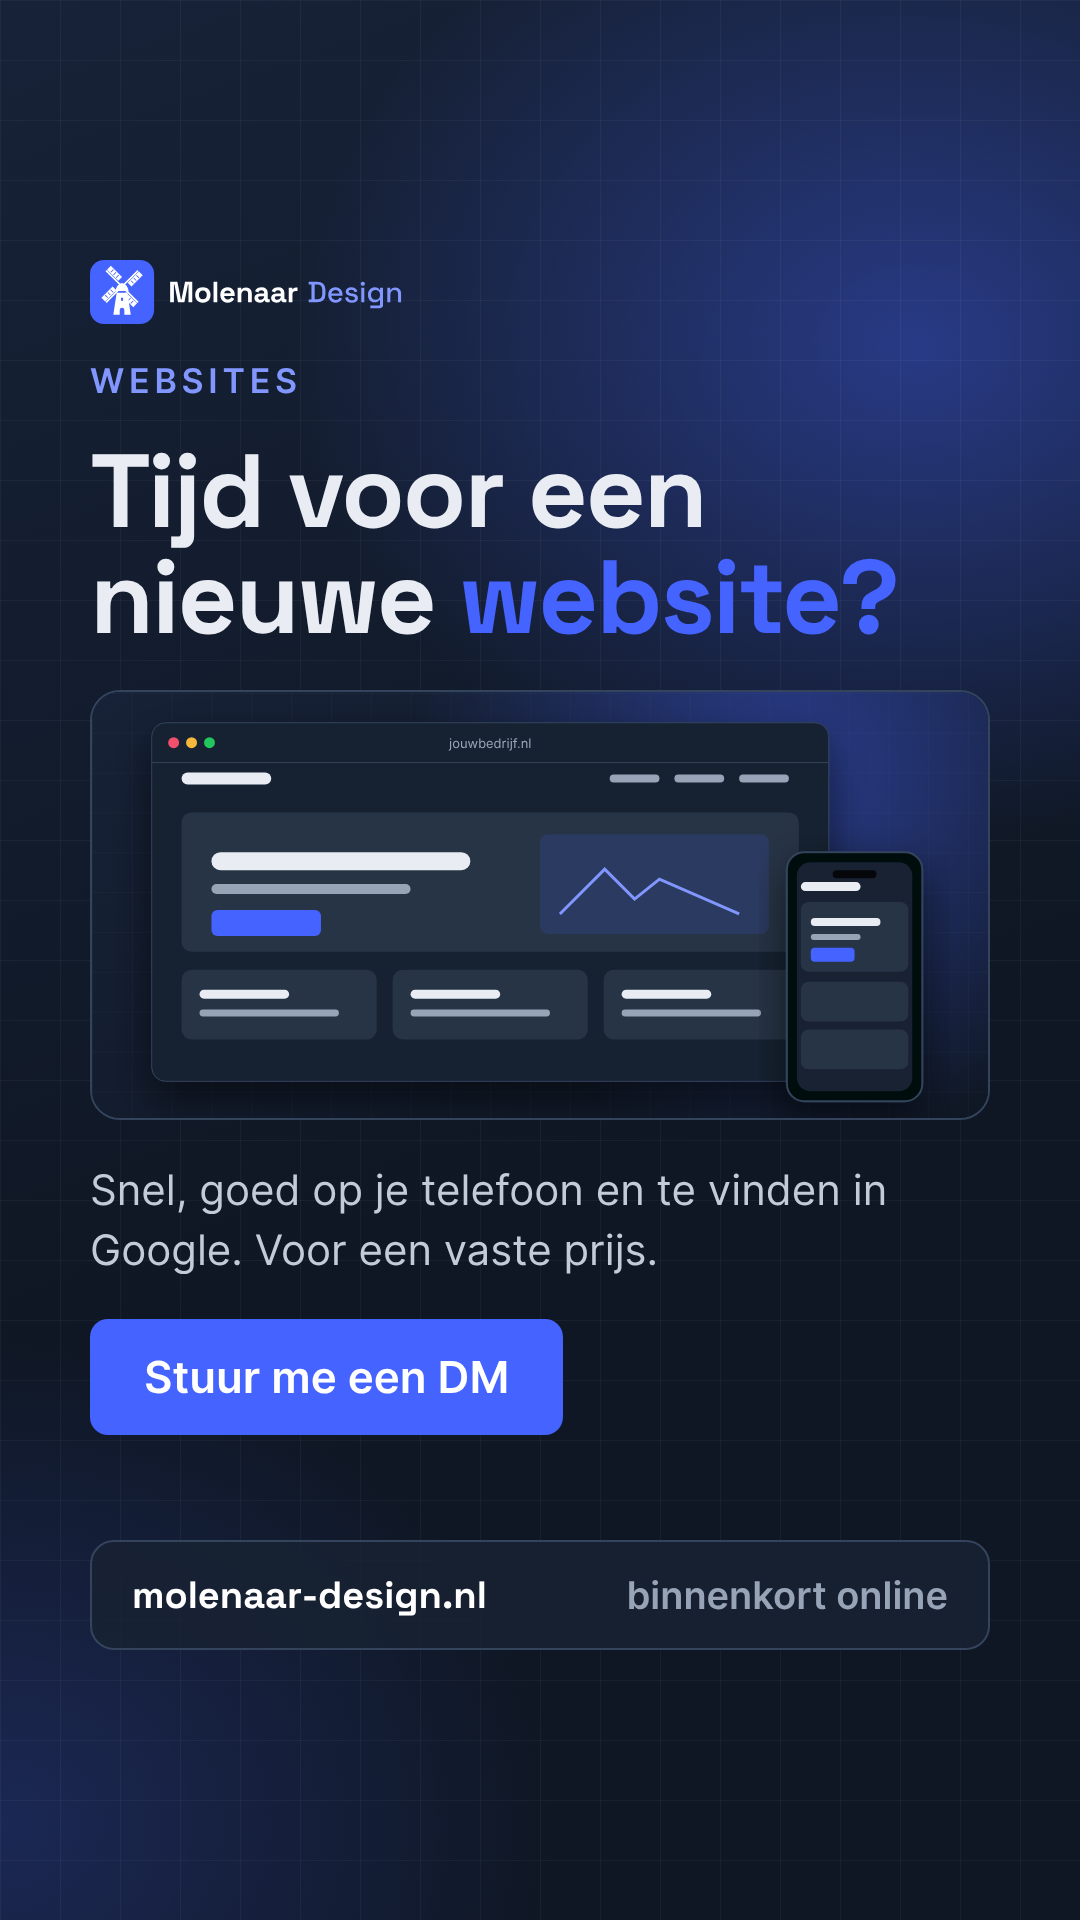
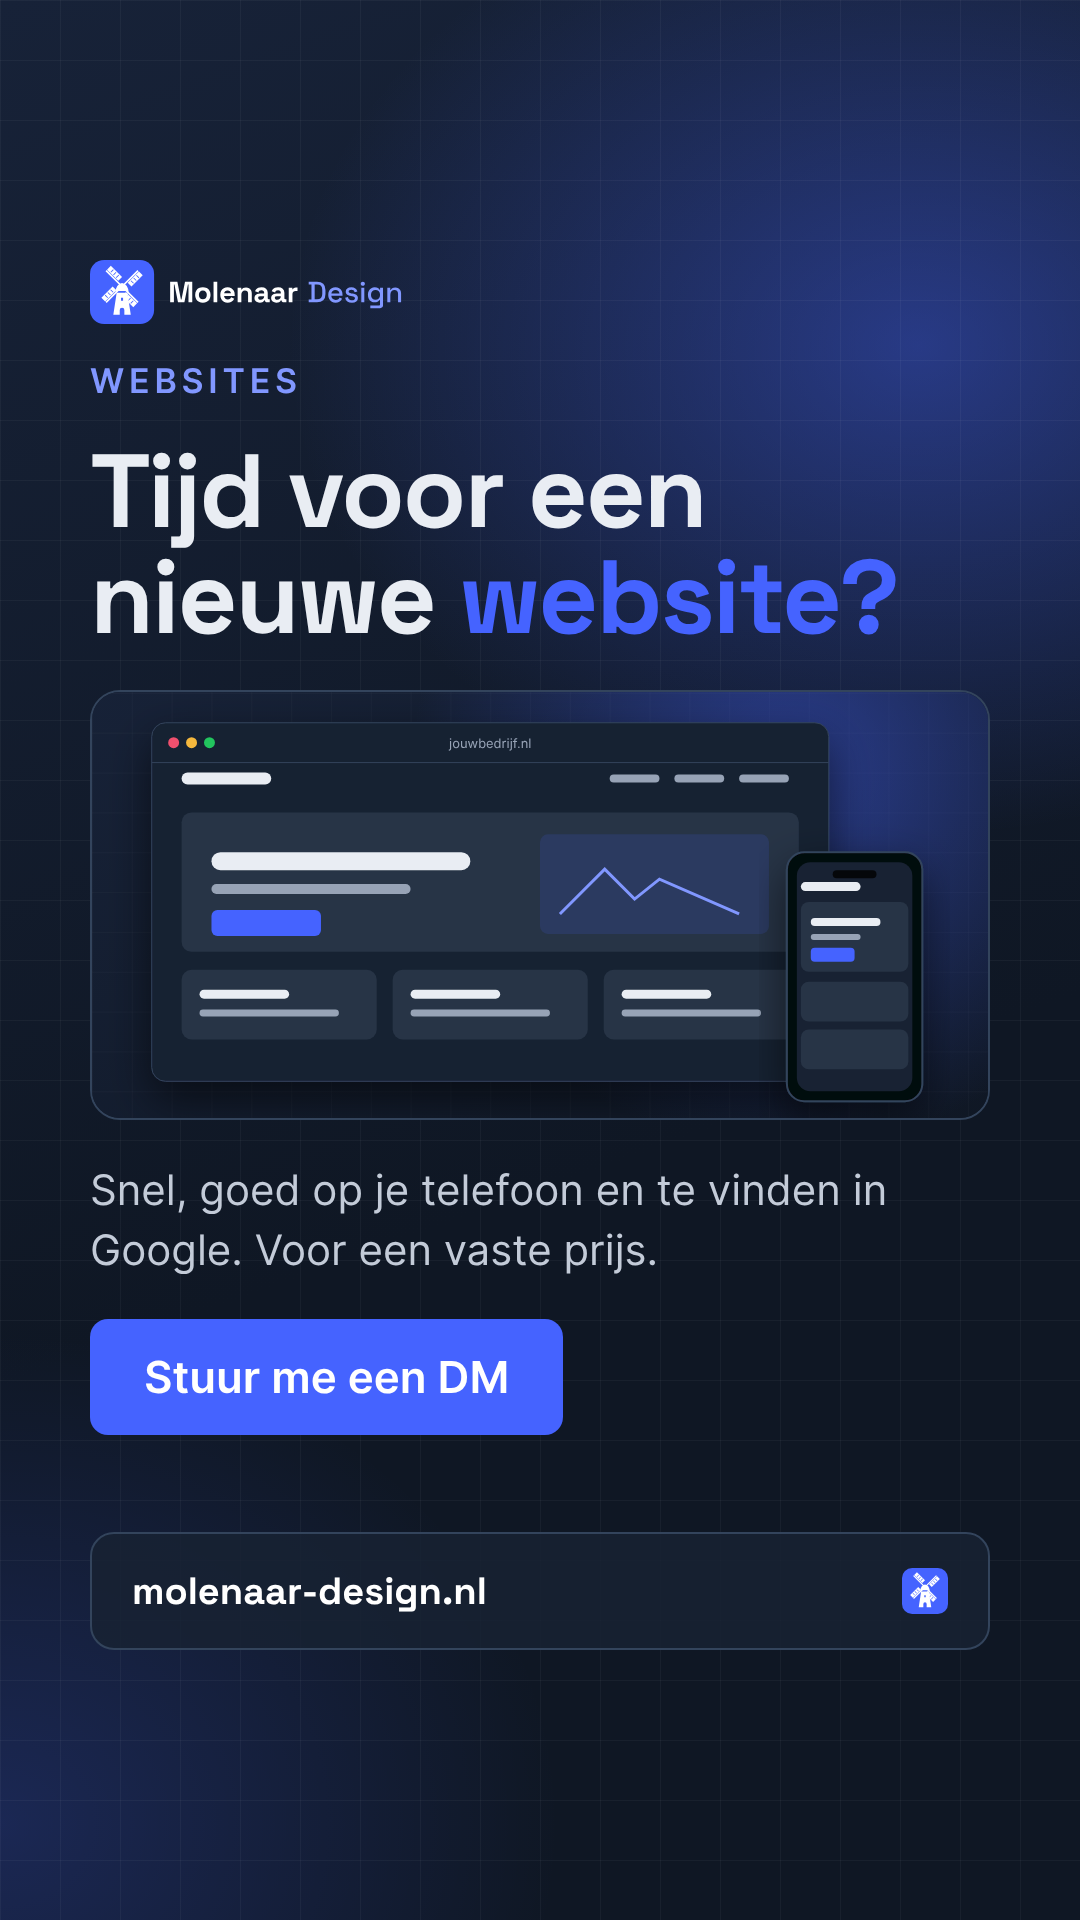
Add question story about outdated websites, drop 'binnenkort online'
Claude-Session: https://claude.ai/code/session_01BR2aM2KyyCs7b3zr3d6H45

Changed region(s): [[0.5806, 0.8125, 0.8861, 0.8438], [0.1222, 0.8125, 0.4278, 0.8438]]

diff --git a/README.md b/README.md
@@ -74,11 +74,13 @@ niet in git opgeslagen. Maak er op de server zelf back-ups van.
 
 ## Instagram
 
-In `instagram/` staan drie reclamestories (1080 × 1920):
+In `instagram/` staan vier reclamestories (1080 × 1920):
 
 - `story-01-reclame-website.png` – "Tijd voor een nieuwe website?"
 - `story-02-reclame-app.png` – "Een eigen app voor je bedrijf?"
 - `story-03-reclame-waarom.png` – "Eén aanspreekpunt, van idee tot online."
+- `story-04-vraag-website.png` – "Is je website een beetje verouderd?" met de keuzes opfrisbeurt,
+  compleet nieuwe website of nieuw met backend, en "DM voor info"
 
 Tekst en logo staan binnen de veilige zone, zodat de knoppen van Instagram niets afdekken.
 
